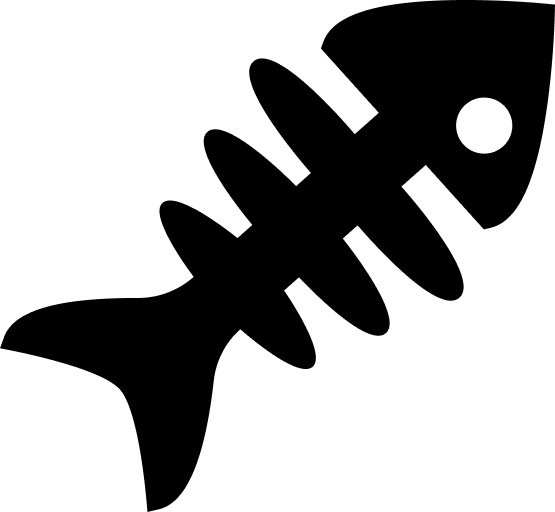
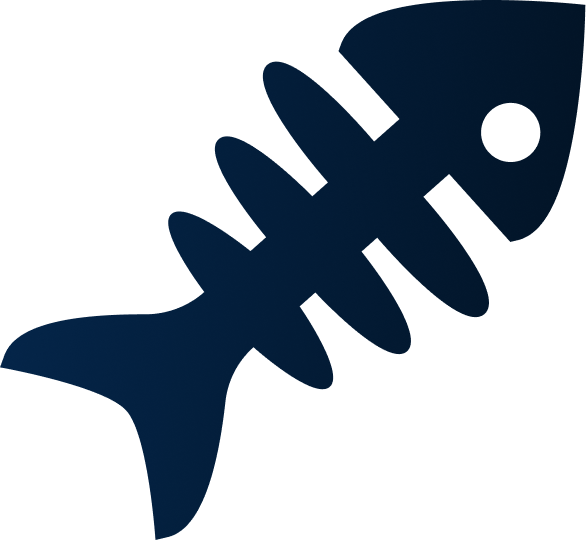
Switch coral reef to hand-built presets with real color baked into each PNG
Replaces the code-side masking approach (black silhouette + gradient
recolor + algorithmic valley placement) with a preset system: each rock
layer (3rd/2nd/1st) now has a few fixed compositions, hand-placed and
colored directly in Figma, extracted from 8 preset frames via the Plugin
API. Every coral/Fish Bone PNG is re-exported with its real Figma color
already baked in (no more black masks), including 3 new ones (Coral5,
Coral8, Coral9 -- Coral9 reuses Coral8.png, same shape at a different
scale). On each load one preset is picked per layer, so the reef is a
permutation of 2x3x3 = 18 hand-designed arrangements. Removed the now-dead
recolorToDisplaySize/spawnReefInstance/ridgeYAt masking machinery.
Coral4.png removed — unused in any preset or the current main Scene.

diff --git a/sketch.js b/sketch.js
@@ -12,9 +12,9 @@ const PALETTE = {
 
 // Raw vector path data traced from the Figma "Scene" frame's Kelp layers,
 // read directly via the Plugin API. Corals/Fish Bone used to be traced the
-// same way but were replaced with recolored PNGs (see CORAL_FILES /
-// FISH_BONE_FILE below) — bezier-endpoint tracing loses too much curve
-// smoothness on shapes this detailed.
+// same way but were replaced with colored PNGs (see CORAL_ASSET_FILES
+// below) — bezier-endpoint tracing loses too much curve smoothness on
+// shapes this detailed.
 const RAW_PATHS = {
   kelp: [
     "M 26.139664074428065 215.3665919952659 C 25.33008914104649 201.4276588451629 24.354187339727453 184.42389798516717 34.35164254552559 163.32556293889476 C 43.371962231654756 144.30309603701127 46.58937622321034 151.93002999581557 51.15964677815079 147.68077546230705 C 59.863757084315964 139.5866833719882 75.35152863090244 138.63639277149898 82.1150699112948 129.3163779732801 C 90.03750223903918 118.39344834668961 87.06739441097768 93.47896299129563 92.97148701761823 82.48939061257933 C 95.02666223024484 78.66509757938165 96.28064377463393 75.14728447529674 116.7385713872582 59.4694011031117 C 127.07075275195538 51.55329947820324 142.38709246633007 40.814080715301806 145.20365523346769 44.16921957266465 C 147.8285897420723 47.30231270877983 135.8656736808274 52.153136597692225 127.78090677161552 66.95032692522662 C 121.54431671874136 78.34328946578471 119.09496093993141 89.6719515587547 117.51832763720162 96.92524980282337 C 114.51770994502097 110.7585204883951 116.62380294266225 110.73171187065482 113.97297732049574 118.18970748860944 C 109.55886100557453 130.60373681638657 108.30998591748497 151.59471698587714 98.90722883613302 159.84202062198725 C 84.11633526884052 172.81842664961962 85.06030679803537 171.77300049349844 76.57454766802266 180.98164514256547 C 69.0965463831987 189.09646348702148 65.39210962391913 202.2081342363253 49.54144099034265 205.5297984058659 C 23.017926572812872 211.09183311576476 30.140867073580992 225.39238724651776 29.049653357481308 225.08667121194242 C 26.999091300317396 224.5187236862566 26.42470003537126 220.32029013131088 26.127471244368255 215.36372020426182 L 26.139664074428065 215.3665919952659 Z",
@@ -58,43 +58,85 @@ const KELP_DEFS = [
   { name: 'kelpR', paths: RAW_PATHS.kelp, x: 1426, y: 798, w: 149, h: 231, rot: 0.657, top: PALETTE.blackPearl[3], bottom: PALETTE.oceanBlue[3] }
 ];
 
-// The 3rd/back rock layer's own gradient — pulled out as constants (instead
-// of inline strings only in setup()) so the reef's back-layer coral color
-// below can reuse the exact same values, never an approximation of them.
+// The 3rd/back rock layer's own gradient — used only for the rock shape
+// itself now (coral color is baked directly into each PNG, not matched to
+// this in code).
 const RIDGE3RD_TOP = 'rgba(6,62,121,0.59)';
 const RIDGE3RD_BOTTOM = 'rgba(56,148,245,0)';
 
-// Coral reef: generative, differs every reload. Corals are recolored PNG
-// silhouettes (source-in mask + vertical gradient — tint()/multiply doesn't
-// work on pure-black source pixels) scattered across all 3 rock layers, each
-// one anchored to and drawn BEHIND its own layer's contour so the rock
-// covers its root and only the upper body reads in front — the same "grows
-// out of the rock" depth cue real reef photos show, and it also means a
-// back-layer coral gets naturally re-occluded by every nearer layer drawn
-// after it. Each layer's coral color matches that same layer's own rock
-// gradient EXACTLY — not an approximation, the literal same values the rock
-// itself uses — which is the real rule validated against the Figma file:
-// the two coral colors that exist there are pixel-identical to ridge1st's
-// and ridge2nd's own top/bottom. The back layer had no coral in the original
-// (fixed-position) design to validate against, so it follows the same rule
-// by construction: matches ridge3rd's own gradient exactly, translucency
-// included, rather than inventing an unvalidated color for it.
-const CORAL_FILES = ['Coral.png', 'Coral2.png', 'Coral3.png', 'Coral4.png', 'Coral7.png'];
-const FISH_BONE_FILE = 'Fish Bone.png';
+// Coral reef: generative, differs every reload. Each rock layer has a few
+// hand-built presets — fixed compositions the artist laid out and colored
+// directly in Figma, one exported PNG per coral (already colored, no
+// code-side recoloring). On every load, one preset is picked per layer, so
+// the reef is a permutation of hand-designed arrangements rather than an
+// algorithmically scattered one. x/y/w/h below are each coral's
+// absoluteRenderBounds read from its own preset frame via the Plugin API —
+// every preset frame is exactly CANVAS_W x CANVAS_H, so these coordinates
+// map directly onto the scene with no conversion.
+const CORAL_ASSET_FILES = {
+  Coral: 'Coral.png',
+  Coral2: 'Coral2.png',
+  Coral3: 'Coral3.png',
+  Coral5: 'Coral5.png',
+  Coral7: 'Coral7.png',
+  Coral8: 'Coral8.png',
+  Coral9: 'Coral8.png', // same shape as Coral8, only ever placed at a different scale
+  'Fish Bone': 'Fish Bone.png'
+};
+
+const REEF_PRESETS = {
+  '1st': [
+    [
+      { name: 'Fish Bone', x: 1326.83, y: 912.31, w: 120.67, h: 100.25 },
+      { name: 'Coral3', x: 1625.73, y: 799.17, w: 160.68, h: 161.98 },
+      { name: 'Coral2', x: 18, y: 664, w: 166, h: 367 },
+      { name: 'Coral', x: 702.1, y: 912.19, w: 106.31, h: 142.53 }
+    ],
+    [
+      { name: 'Fish Bone', x: 1309.42, y: 909.37, w: 118.3, h: 102.76 },
+      { name: 'Coral2', x: 0, y: 617.63, w: 159.21, h: 364.35 },
+      { name: 'Coral2', x: 1755, y: 604, w: 130, h: 289 },
+      { name: 'Coral', x: 682.1, y: 881.19, w: 106.31, h: 142.53 }
+    ]
+  ],
+  '2nd': [
+    [
+      { name: 'Coral7', x: 1646.26, y: 662.24, w: 168.36, h: 154.48 },
+      { name: 'Coral5', x: 208.08, y: 817.33, w: 106.32, h: 142.42 }
+    ],
+    [
+      { name: 'Coral7', x: 1346.86, y: 755.12, w: 165.01, h: 154.42 },
+      { name: 'Coral5', x: 538.08, y: 817.33, w: 106.32, h: 142.42 }
+    ],
+    [
+      { name: 'Coral7', x: 582.26, y: 838.24, w: 168.36, h: 154.48 },
+      { name: 'Coral5', x: 1613.78, y: 685.63, w: 121.82, h: 127.65 }
+    ]
+  ],
+  '3rd': [
+    [
+      { name: 'Coral9', x: 65, y: 689, w: 149, h: 231 },
+      { name: 'Coral8', x: 1469.7, y: 744.22, w: 160.65, h: 217.03 }
+    ],
+    [
+      { name: 'Coral9', x: 776.04, y: 675.22, w: 141.83, h: 230.7 },
+      { name: 'Coral8', x: 1523.7, y: 558.22, w: 160.65, h: 217.03 },
+      { name: 'Coral8', x: 53.02, y: 572.45, w: 189.2, h: 287.89 }
+    ],
+    [
+      { name: 'Coral9', x: 589.15, y: 699.59, w: 141.87, h: 226.65 },
+      { name: 'Coral8', x: 1648.31, y: 607.89, w: 144.25, h: 221.27 }
+    ]
+  ]
+};
+
 const REEF_STRIPS = 30;
 const REEF_SWAY_AMP = 16;
 const REEF_SWAY_SPEED = 0.024;
-const REEF_BACK_TOP = RIDGE3RD_TOP;
-const REEF_BACK_BOTTOM = RIDGE3RD_BOTTOM;
-const REEF_MID_TOP = PALETTE.blackPearl[1];
-const REEF_MID_BOTTOM = PALETTE.blackPearl[2];
-const REEF_FRONT_TOP = PALETTE.blackPearl[0];
-const REEF_FRONT_BOTTOM = PALETTE.blackPearl[1];
 
 let ridge3rd, ridge2nd, ridge1st;
 let kelps = [];
-let coralImgs = [];
-let fishBoneImg;
+let coralImgs = {};
 let reefBack = [], reefMid = [], reefFront = [];
 let bodyImg, headImg, hand1Img, hand2Img, mouthImg, boatImg, rodImg, hookImg;
 let blinkTimer = 90, blinking = false, blinkT = 0;
@@ -109,8 +151,9 @@ function preload() {
   boatImg = loadImage('assets/boat.png');
   rodImg = loadImage('assets/rod.png');
   hookImg = loadImage('assets/hook.png');
-  coralImgs = CORAL_FILES.map(f => loadImage('assets/' + f));
-  fishBoneImg = loadImage('assets/' + FISH_BONE_FILE);
+  Object.entries(CORAL_ASSET_FILES).forEach(([name, file]) => {
+    coralImgs[name] = loadImage('assets/' + file);
+  });
 }
 
 function setup() {
@@ -137,86 +180,39 @@ function setup() {
   // the PNG-based reef. Re-enable via `kelps = KELP_DEFS.map(makeTracedInstance);`
   // once a Kelp PNG is exported.
   kelps = [];
-  generateReef();
+  buildReef();
   hookSwayPhase = random(TWO_PI);
 }
 
-// Reef corals are scattered across all 3 rock layers and spawned into
-// reefBack/reefMid/reefFront so draw() can slot each one in right before its
-// own layer is painted on top of it (see draw() below for why).
-function generateReef() {
-  reefBack = []; reefMid = []; reefFront = [];
-
-  const backN = Math.floor(random(2, 4));
-  for (let i = 0; i < backN; i++) {
-    // Min size raised from 40 to 50 — thin branch silhouettes lost too much
-    // detail (read as scribbles) below that at this layer's small scale.
-    reefBack.push(spawnReefInstance(coralImgs, ridge3rd, [50, 80], REEF_BACK_TOP, REEF_BACK_BOTTOM));
-  }
-  const midN = Math.floor(random(2, 4));
-  for (let i = 0; i < midN; i++) {
-    reefMid.push(spawnReefInstance(coralImgs, ridge2nd, [65, 110], REEF_MID_TOP, REEF_MID_BOTTOM));
-  }
-  const frontN = Math.floor(random(3, 5));
-  for (let i = 0; i < frontN; i++) {
-    reefFront.push(spawnReefInstance(coralImgs, ridge1st, [90, 155], REEF_FRONT_TOP, REEF_FRONT_BOTTOM));
-  }
-
-  // Single Fish Bone prop, randomly assigned to one of the 3 layers like a coral.
-  const fbTargets = [
-    { arr: reefBack, ridge: ridge3rd, size: [40, 60], top: REEF_BACK_TOP, bottom: REEF_BACK_BOTTOM },
-    { arr: reefMid, ridge: ridge2nd, size: [55, 85], top: REEF_MID_TOP, bottom: REEF_MID_BOTTOM },
-    { arr: reefFront, ridge: ridge1st, size: [65, 100], top: REEF_FRONT_TOP, bottom: REEF_FRONT_BOTTOM }
-  ];
-  const fb = random(fbTargets);
-  fb.arr.push(spawnReefInstance([fishBoneImg], fb.ridge, fb.size, fb.top, fb.bottom, { noSway: true }));
+// Picks one hand-built preset per rock layer into reefBack/reefMid/reefFront
+// so draw() can slot each one in right before its own layer is painted on
+// top of it (see draw() below for why).
+function buildReef() {
+  reefBack = buildReefLayer(REEF_PRESETS['3rd']);
+  reefMid = buildReefLayer(REEF_PRESETS['2nd']);
+  reefFront = buildReefLayer(REEF_PRESETS['1st']);
 }
 
-function spawnReefInstance(pool, ridge, sizeRange, topHex, bottomHex, opts = {}) {
-  const img = random(pool);
-  const h = random(sizeRange[0], sizeRange[1]);
-  const w = h * (img.width / img.height);
-  // Corals only sit over the ridge's flat "valley" plateau, never the tall
-  // edge columns — a wide safety margin past the ridge's own edgeZonePx
-  // keeps x solidly in the flat area, not partway up the smoothstep climb.
-  const margin = ridge.edgeZonePx * 1.8;
-  const x = random(margin, CANVAS_W - margin);
-  // Exactly half the coral's own height sits above the rock's contour line
-  // (visible) and half below it (hidden by the rock drawn after) — a small
-  // jitter keeps instances from looking mechanically identical.
-  const y = ridgeYAt(ridge, x) + h * 0.5 + random(-6, 6);
-  return {
-    buf: recolorToDisplaySize(img, topHex, bottomHex, w, h),
-    baseX: x - w / 2, baseY: y, w, h,
+function buildReefLayer(presets) {
+  const preset = random(presets);
+  return preset.map(def => ({
+    buf: scaleToDisplaySize(coralImgs[def.name], def.w, def.h),
+    baseX: def.x, baseY: def.y + def.h, w: def.w, h: def.h,
     speedMul: random(0.7, 1.3),
-    ampMul: opts.noSway ? 0 : random(0.75, 1.3),
+    ampMul: random(0.75, 1.3),
     stiffExp: random(1.2, 2.2),
     phase: random(TWO_PI),
-    flutter: !opts.noSway && random() > 0.3
-  };
+    flutter: random() > 0.3
+  }));
 }
 
-// Recolors a black-silhouette PNG by using its alpha channel as a mask
-// ('source-in') and filling a vertical gradient behind it — tint()/multiply
-// doesn't work here since multiplying by pure black (0,0,0) always stays
-// black regardless of the tint color. Also downscales to the actual
-// on-canvas display size right here, once, with high-quality resampling —
-// re-resampling a full-res source on every strip, every frame, is what made
-// an earlier version of this laggy.
-function recolorToDisplaySize(img, topHex, bottomHex, dispW, dispH) {
-  const full = createGraphics(img.width, img.height);
-  full.image(img, 0, 0);
-  full.drawingContext.globalCompositeOperation = 'source-in';
-  const g = full.drawingContext.createLinearGradient(0, 0, 0, img.height);
-  g.addColorStop(0, topHex);
-  g.addColorStop(1, bottomHex);
-  full.drawingContext.fillStyle = g;
-  full.drawingContext.fillRect(0, 0, img.width, img.height);
-
+// Downscales to the actual on-canvas display size once, with high-quality
+// resampling — re-resampling a full-res source on every strip, every frame,
+// is what made an earlier version of the reef sway laggy.
+function scaleToDisplaySize(img, dispW, dispH) {
   const small = createGraphics(Math.ceil(dispW), Math.ceil(dispH));
   small.drawingContext.imageSmoothingQuality = 'high';
-  small.image(full, 0, 0, small.width, small.height);
-  full.remove();
+  small.image(img, 0, 0, small.width, small.height);
   return small;
 }
 
@@ -331,22 +327,7 @@ function makeRidge(edgeY, plateauY, edgeZoneFrac, floorY, topCss, bottomCss) {
     points.push({ x, y });
     x += random(25, 65);
   }
-  return { points, floorY, topCss, bottomCss, edgeZonePx, topY: Math.min(...points.map(p => p.y)) };
-}
-
-// Interpolates a ridge's contour height at an arbitrary x — used to root
-// reef corals to a specific layer's silhouette instead of a flat y-band.
-function ridgeYAt(ridge, x) {
-  const pts = ridge.points;
-  if (x <= pts[0].x) return pts[0].y;
-  if (x >= pts[pts.length - 1].x) return pts[pts.length - 1].y;
-  for (let i = 0; i < pts.length - 1; i++) {
-    if (x >= pts[i].x && x <= pts[i + 1].x) {
-      const t = (x - pts[i].x) / (pts[i + 1].x - pts[i].x);
-      return lerp(pts[i].y, pts[i + 1].y, t);
-    }
-  }
-  return pts[pts.length - 1].y;
+  return { points, floorY, topCss, bottomCss, topY: Math.min(...points.map(p => p.y)) };
 }
 
 // Rounds each interior peak/valley by a small fixed radius so the silhouette
